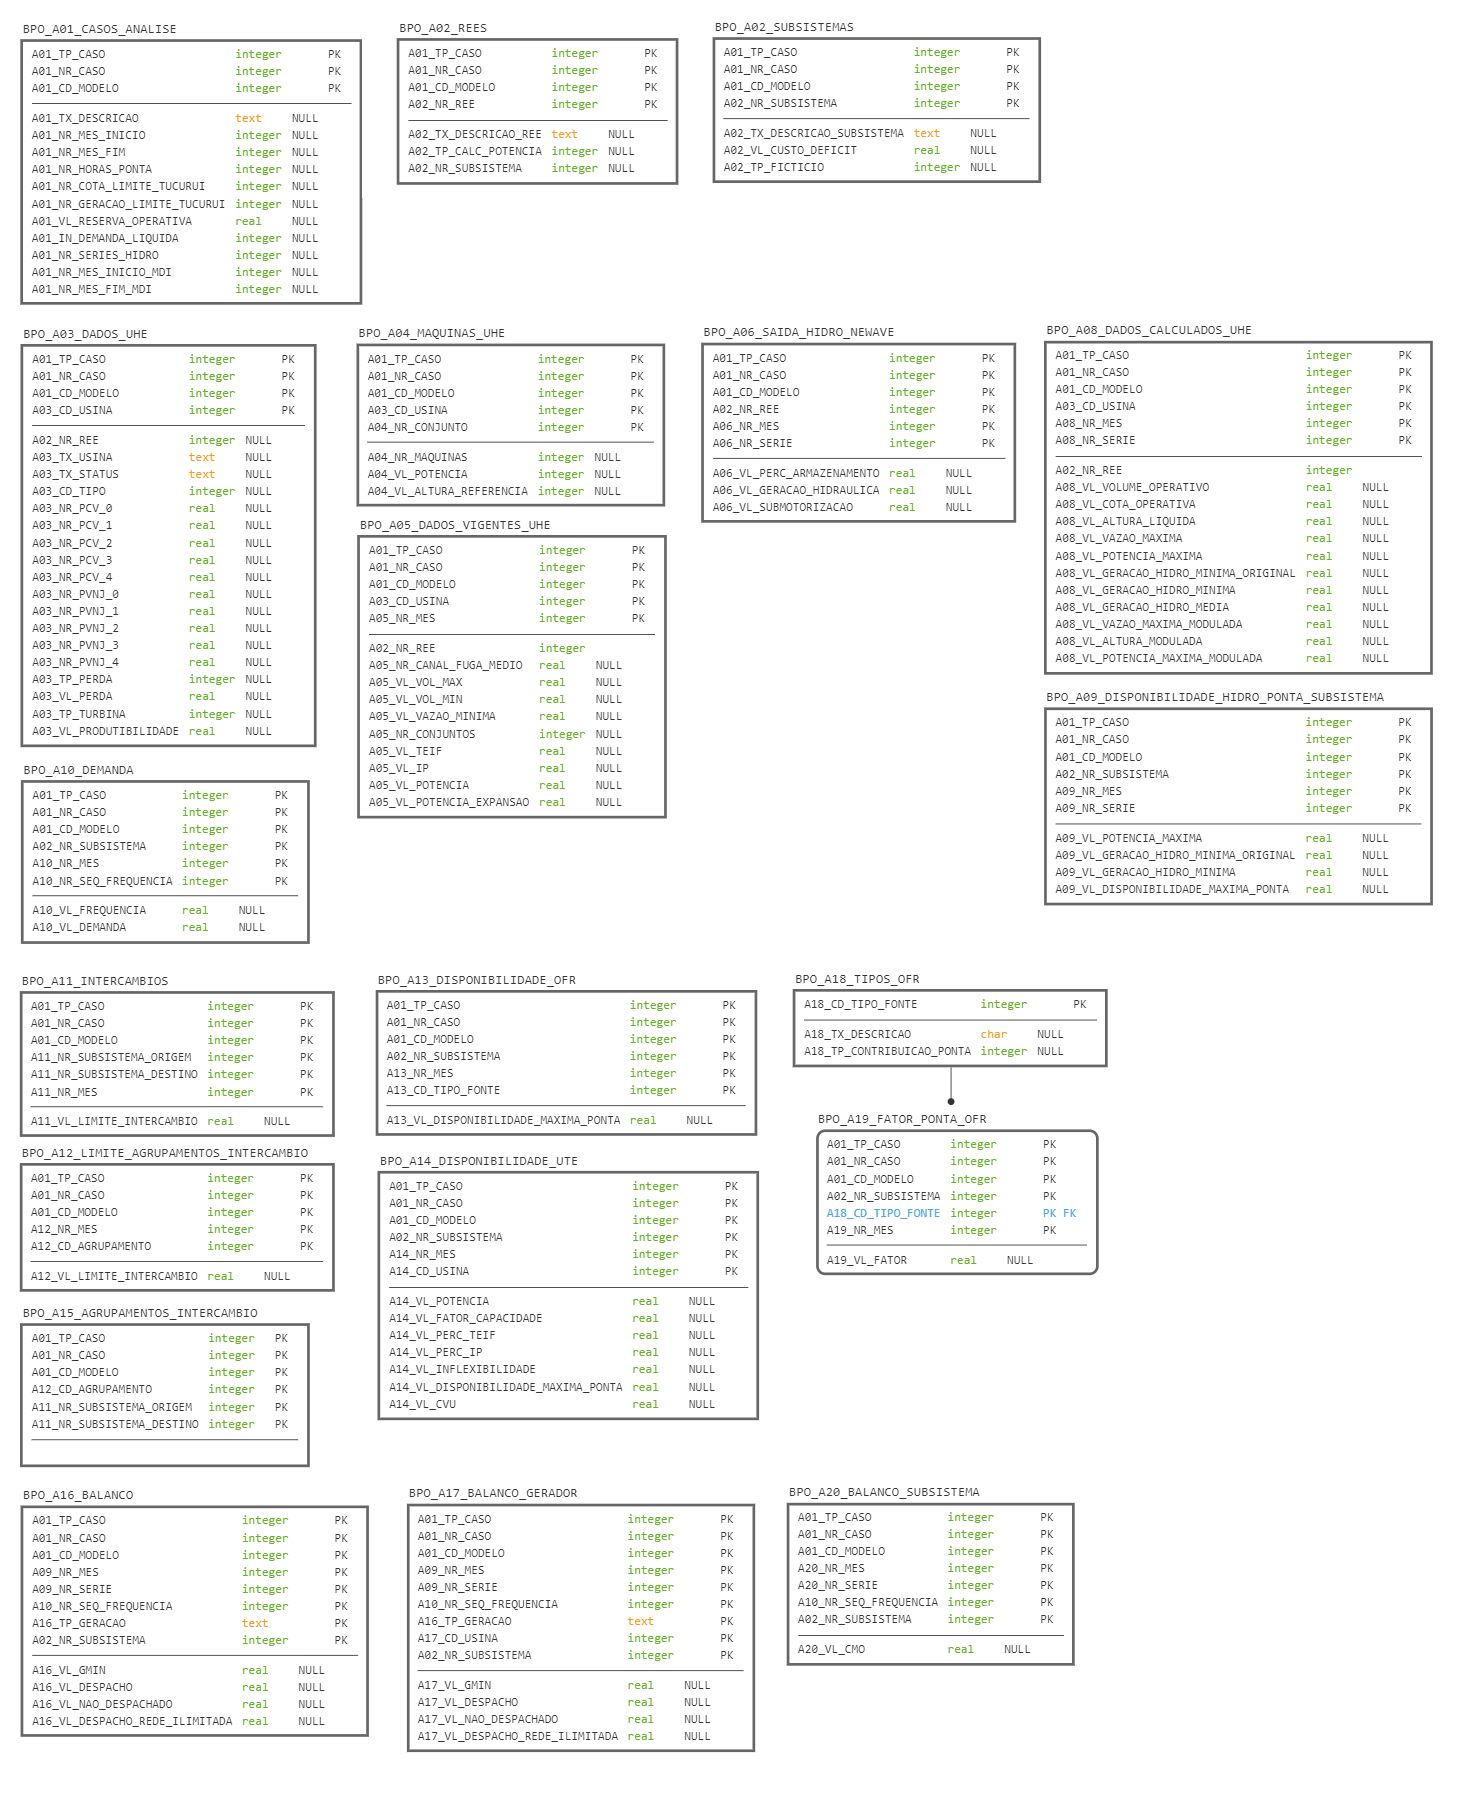
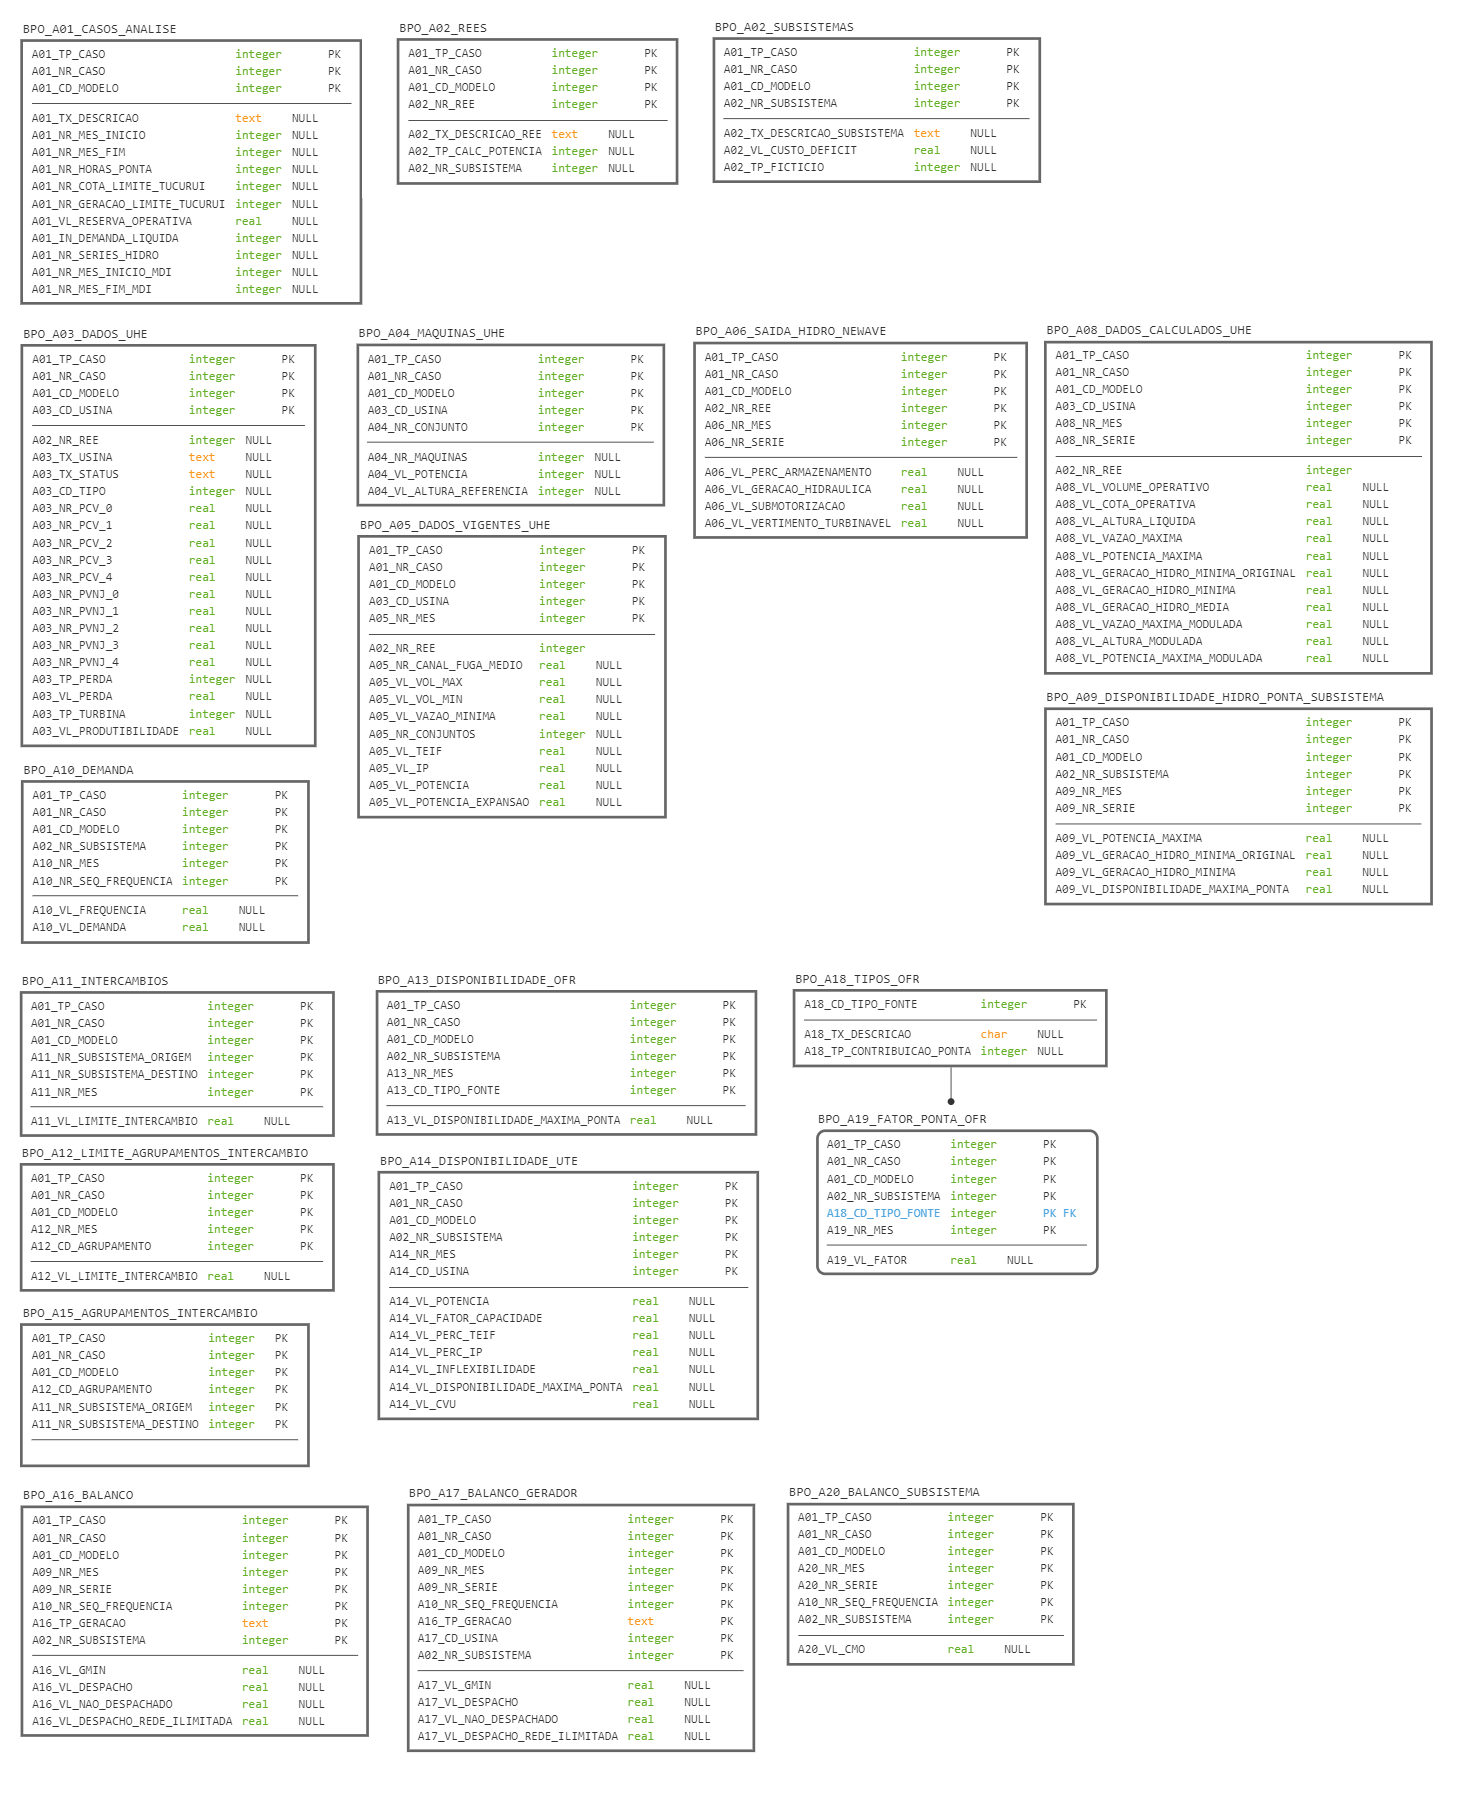
Inclui o vertimento turbinável na tabela de dados hidro e considera o valor para as usinas do tipo 2 e 3.

Changed region(s): [[0.4608, 0.1874, 0.7065, 0.3123]]

diff --git a/inst/appBalanco/www/html/index_db.html b/inst/appBalanco/www/html/index_db.html
@@ -125,7 +125,8 @@
 					<p> &#8227; <font face = "Courier New">A06_NR_SERIE</font>&nbsp;<img src = "../imagens/key-solid.svg" height = "12px"/>&nbsp;: N&uacute;mero da s&eacute;rie hidro</p>
 					<p> &#8227; <font face = "Courier New">A06_VL_PERC_ARMAZENAMENTO</font>: Valor de energia armazenada final em rela&ccedil;ao a m&aacute;xima [%]</p>
 					<p> &#8227; <font face = "Courier New">A06_VL_GERACAO_HIDRAULICA</font>: Valor de gera&ccedil;&atilde;o hidroel&eacute;trica [MWmes]</p>
-					<p> &#8227; <font face = "Courier New">A06_VL_SUBMOTORIZACAO</font>: Valor de submotoriza&ccedil;&atilde;o</p>
+					<p> &#8227; <font face = "Courier New">A06_VL_SUBMOTORIZACAO</font>: Valor de submotoriza&ccedil;&atilde;o [MWmes]</p>
+					<p> &#8227; <font face = "Courier New">A06_VL_VERTIMENTO_TURBINAVEL</font>: Valor de vertimento turbin&aacute;vel [MWmes]</p>
 				<br>
 				<h3><font face = "Courier New">BPO_A08_DADOS_CALCULADOS_UHE</font></h3>				
 					<p>A tabela possui os dados das usinas hidroel&eacute;tricas calculados pela metodologia de rateio da disponibilidade h&iacute;drica.</p>
